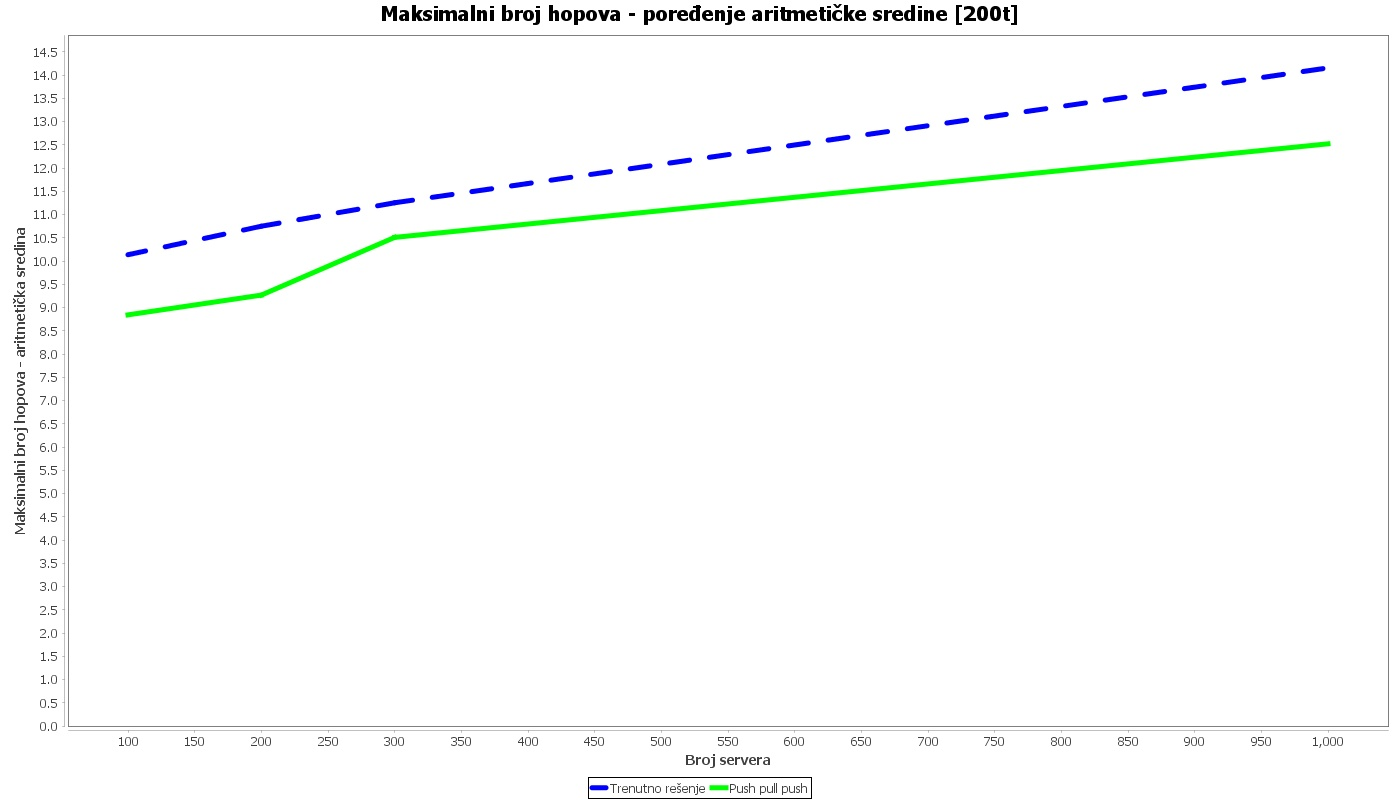
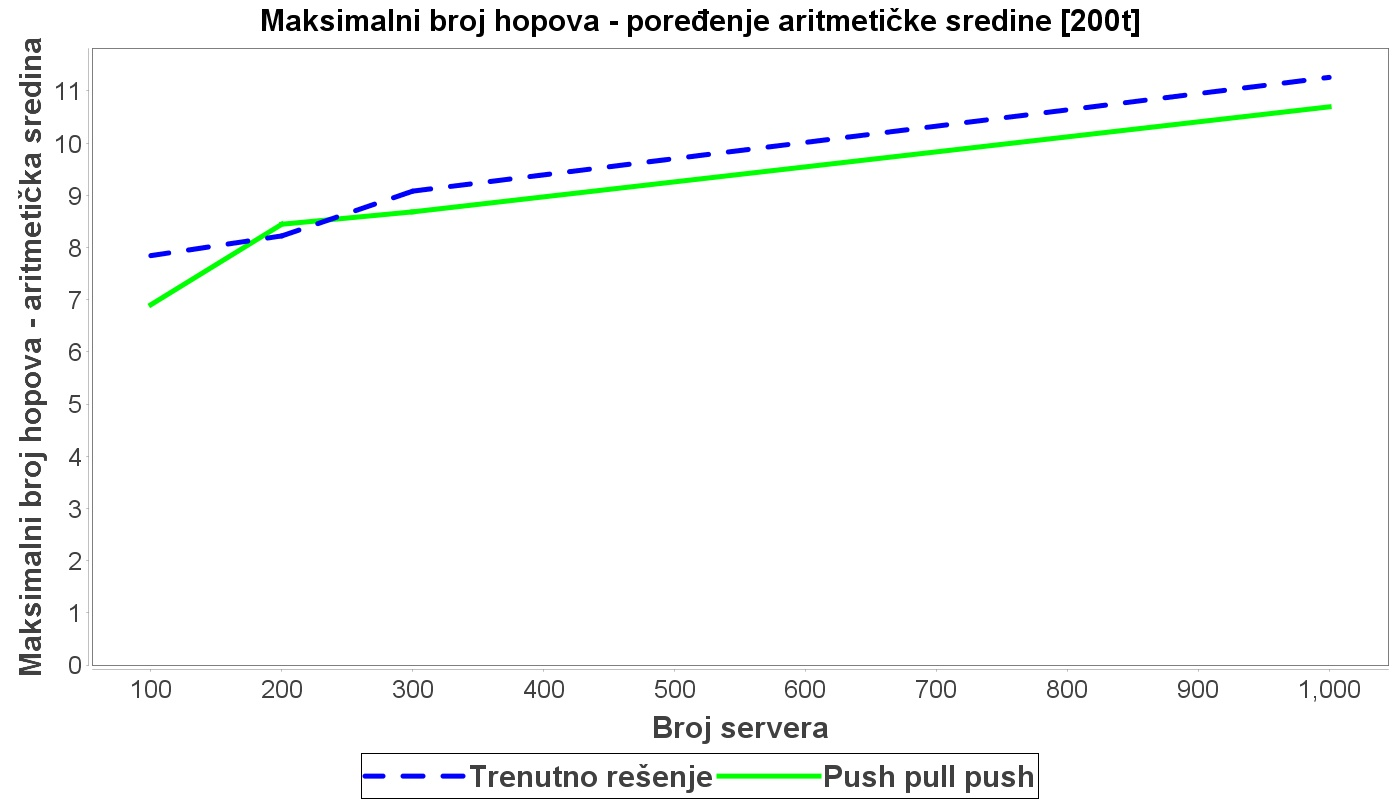
Add files via upload

diff --git a/Simulator/src/ml140036d/Simulator.java b/Simulator/src/ml140036d/Simulator.java
@@ -6,6 +6,7 @@ import ml140036d.simulation.server.Link;
 import ml140036d.simulation.server.PushPullPushServer;
 import ml140036d.simulation.server.Server;
 import ml140036d.util.Constants;
+import ml140036d.util.SafePrint;
 import org.jfree.chart.ChartFactory;
 import org.jfree.chart.ChartUtilities;
 import org.jfree.chart.JFreeChart;
@@ -16,8 +17,11 @@ import org.jfree.data.xy.XYSeries;
 import org.jfree.data.xy.XYSeriesCollection;
 
 import java.awt.*;
+import java.awt.geom.Line2D;
 import java.io.File;
 import java.util.ArrayList;
+import java.util.Collections;
+import java.util.Random;
 import java.util.concurrent.Semaphore;
 import java.util.concurrent.ThreadLocalRandom;
 
@@ -37,7 +41,9 @@ public class Simulator {
             maximumPeerSubsetSize = 1;
         }
 
+        System.out.println("Inicijalizacija");
         ArrayList<Server> servers = initServers(numberOfServers, simulationStrategy, toSignal, maximumPeerSubsetSize);
+        System.out.println("Gotova!");
 
         sendTransactions(servers, numberOfTransactions);
 
@@ -80,15 +86,19 @@ public class Simulator {
 
             servers.add(server);
         }
-
+        
         for (Server server : servers) { // dalje se formira podskup suseda za sve servere, tako da nikad ne premasi vrednost [ln(n), 2ln(n), 3ln(n)]
-            int peerSubsetSize = ThreadLocalRandom.current().nextInt(1, maximumPeerSubsetSize + 1) - server.getPeerSubset().size();
+            int peerSubsetSize = maximumPeerSubsetSize - server.getPeerSubset().size();
+
+            if (peerSubsetSize <= 0) {
+                continue;
+            }
 
             for (int i = 0; i < peerSubsetSize; i++) {
                 int peerIndex = ThreadLocalRandom.current().nextInt(0, servers.size());
                 Server peer = servers.get(peerIndex);
 
-                if (server.equals(peer) || server.getPeerSubset().contains(peer) || peer.getPeerSubset().size() == maximumPeerSubsetSize) {
+                if (server.equals(peer) || server.peerSubsetContains(peer) || peer.getPeerSubset().size() == maximumPeerSubsetSize) {
                     i--;
                     continue;
                 }
@@ -315,6 +325,8 @@ public class Simulator {
         XYPlot plot = chart.getXYPlot();
         XYLineAndShapeRenderer renderer = new XYLineAndShapeRenderer(true, false);
 
+        renderer.setLegendLine(new Line2D.Double(-50.0D, 0.0D, 50.0D, 0.0D));
+
         renderer.setSeriesPaint(0, Color.BLUE);
         renderer.setSeriesPaint(1, Color.GREEN);
 
@@ -327,6 +339,18 @@ public class Simulator {
         plot.setRenderer(renderer);
 
         plot.setBackgroundPaint(Color.WHITE);
+
+        Font labelFont = new Font("AxisLabelFont", Font.BOLD, 30);
+        plot.getDomainAxis().setLabelFont(labelFont);
+        plot.getRangeAxis().setLabelFont(labelFont);
+
+        Font axisValuesFont = new Font("AxisValuesFont", Font.PLAIN, 25);
+        plot.getDomainAxis().setTickLabelFont(axisValuesFont);
+        plot.getRangeAxis().setTickLabelFont(axisValuesFont);
+
+        Font legendTitleFont = new Font("AxisLabelFont", Font.BOLD, 30);
+        chart.getLegend().setItemFont(legendTitleFont);
+        chart.getTitle().setFont(legendTitleFont);
     }
 
 }

diff --git a/Simulator/src/ml140036d/simulation/server/Server.java b/Simulator/src/ml140036d/simulation/server/Server.java
@@ -145,4 +145,14 @@ public abstract class Server {
         passiveThreadFinished = true;
         requestsEmpty.release();
     }
+
+    public boolean peerSubsetContains(Server server) {
+        for (Link peer : peerSubset) {
+            if (peer.getPeer().equals(server)) {
+                return true;
+            }
+        }
+
+        return false;
+    }
 }

diff --git a/Simulator/src/ml140036d/simulation/server/PushPullPushServer.java b/Simulator/src/ml140036d/simulation/server/PushPullPushServer.java
@@ -60,6 +60,7 @@ public class PushPullPushServer extends Server {
 
                 requested.add(transaction.getId());
 
+                transaction.setHopCount(transaction.getHopCount() + 1);
                 mempool.add(transaction);
 
                 toProposeMutex.acquireUninterruptibly();
